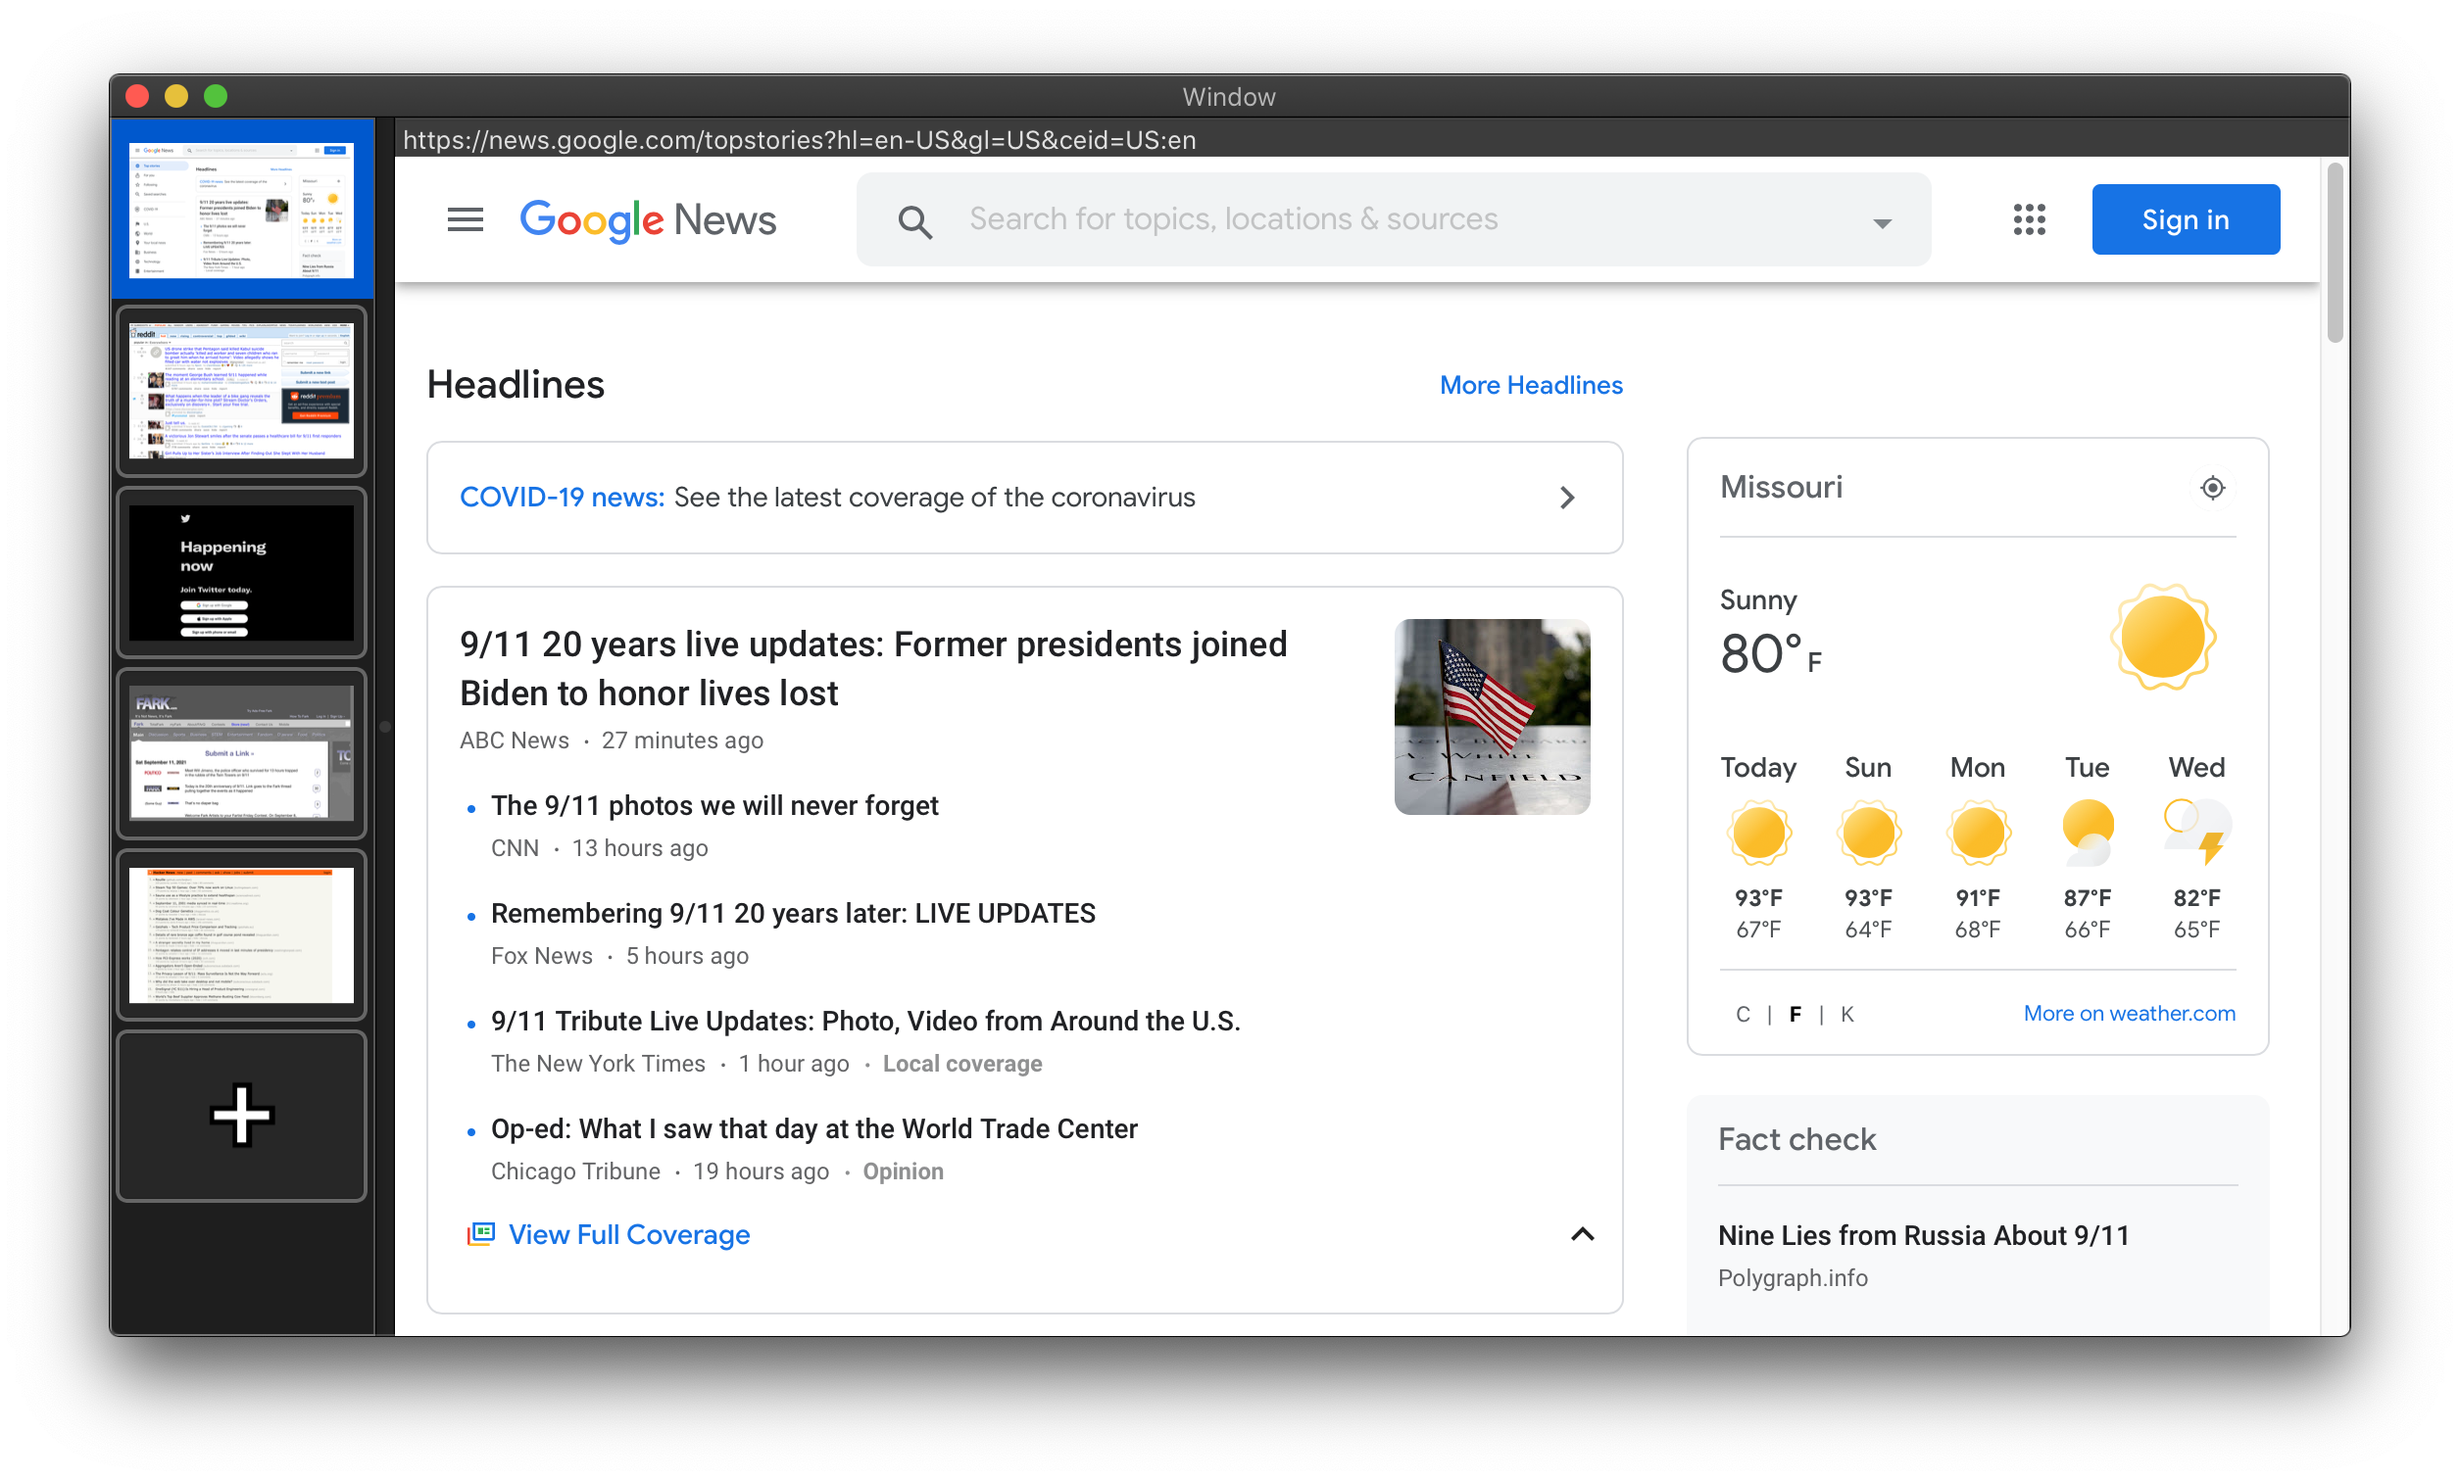
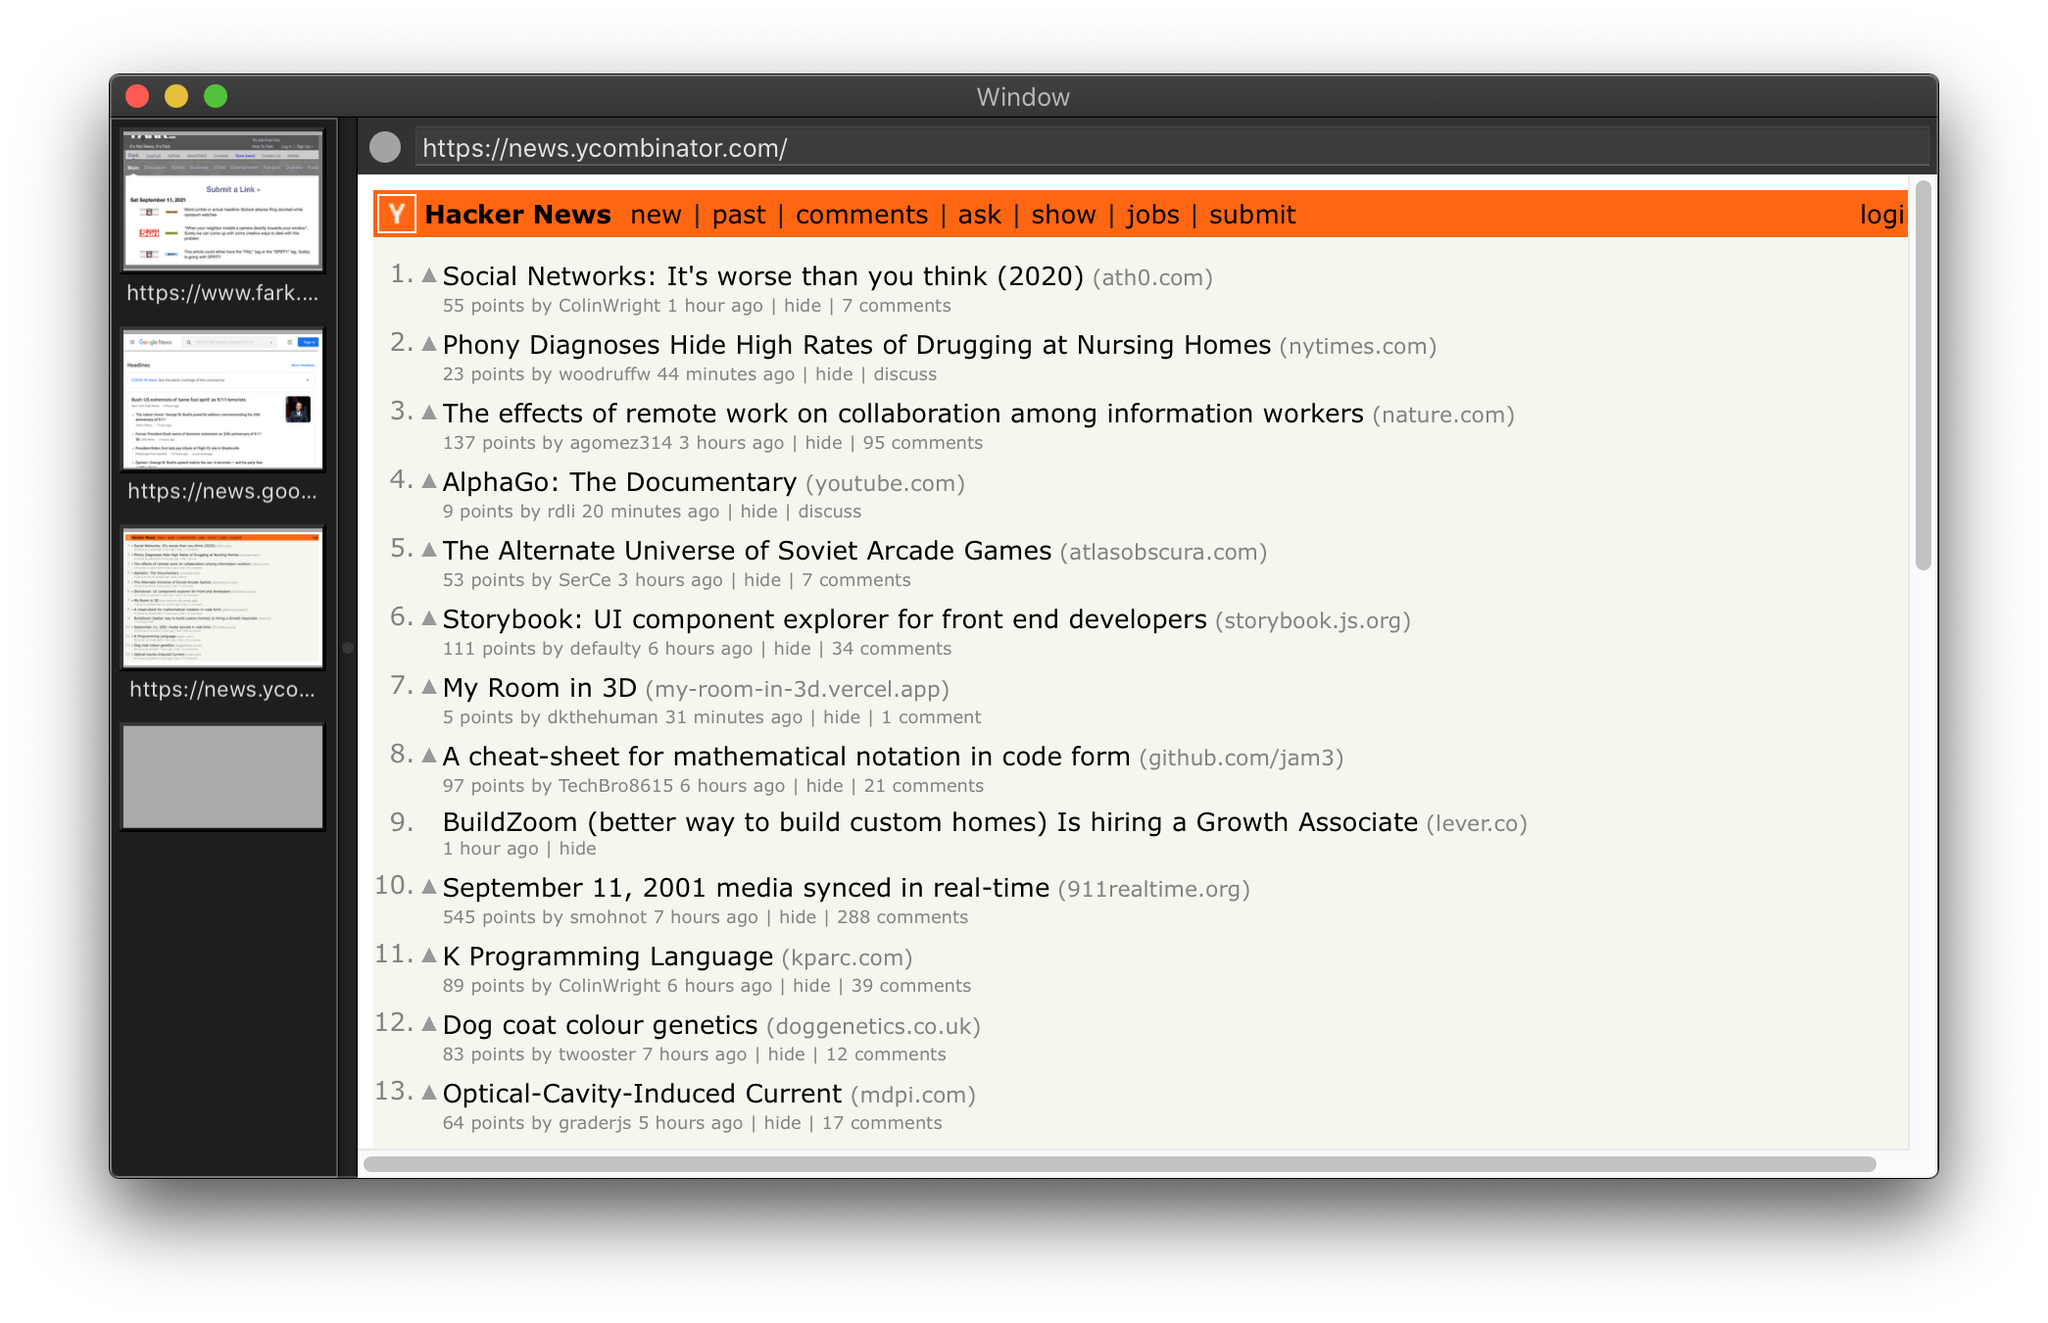
improve preview sizing

diff --git a/Tabber/ViewController.m b/Tabber/ViewController.m
@@ -1,11 +1,15 @@
 
 #import "ViewController.h"
 #import "WebViewTabController.h"
+#import "ThumnailCellView.h"
 #import "NSView+Extras.h"
 
 @import WebKit;
 
 @interface ViewController() <NSTableViewDelegate, NSTableViewDataSource, WebViewTabControllerDelegate, NSSplitViewDelegate>
+@property (weak) IBOutlet NSView *paneContainerView;
+@property (weak) IBOutlet NSView *listContainerView;
+@property (weak) IBOutlet NSSplitView *splitView;
 @property (weak) IBOutlet NSView *webViewSuperView;
 @property (weak) IBOutlet NSTextField *addressField;
 @property (weak) IBOutlet NSTableView *tableView;
@@ -28,8 +32,11 @@
 
 - (NSSize)optimalThumbnailSize;
 {
-    CGFloat maxWidth = kBaseWidth - 4;
-    return NSMakeSize(maxWidth * 2, (maxWidth / self.webViewSuperView.aspectRatio) * 2);
+    CGFloat targetWidth = self.listContainerView.bounds.size.width - 6;
+    CGFloat widthRatio = targetWidth / self.paneContainerView.bounds.size.width;
+    CGFloat targetImageHeight = self.listContainerView.bounds.size.height * widthRatio;
+
+    return NSMakeSize(targetWidth * 2, targetImageHeight * 2);
 }
 
 - (void)viewDidLayout;
@@ -85,20 +92,23 @@
     return self.tabs.count + 1;
 }
 
-static const CGFloat kBaseWidth = 150;
-
 - (CGFloat)tableView:(NSTableView *)tableView heightOfRow:(NSInteger)row;
 {
-    return row == self.tabs.count ? 80 : kBaseWidth / self.webViewSuperView.aspectRatio;
+    return row == self.tabs.count ? 80 : (self.optimalThumbnailSize.height / 2) + 16 + 3 + 3 + 3;
 }
 
-- (nullable id)tableView:(NSTableView *)tableView objectValueForTableColumn:(nullable NSTableColumn *)tableColumn row:(NSInteger)row;
+- (NSView *)tableView:(NSTableView *)tableView viewForTableColumn:(NSTableColumn *)tableColumn row:(NSInteger)row;
 {
-    if (row == self.tabs.count) {
-        return [NSImage imageNamed:@"add"];
-    }
 
-    return self.tabs[row].lastThumbnailImage;
+    ThumnailCellView *view = [tableView makeViewWithIdentifier:@"cellView" owner:self];
+    if (row == self.tabs.count) {
+        view.myTextField.stringValue = @"";
+        view.myImageView.image = nil;
+        return view;
+    }
+    view.myTextField.stringValue = self.tabs[row].url.absoluteString ?: @"";
+    view.myImageView.image = self.tabs[row].lastThumbnailImage;
+    return view;
 }
 
 #pragma mark - NSTableViewDelegate

diff --git a/Tabber/WebViewTabController.m b/Tabber/WebViewTabController.m
@@ -2,10 +2,10 @@
 @import WebKit;
 
 #import "WebViewTabController.h"
-#import "ScrollEventInterceptorView.h"
+#import "EventInterceptorView.h"
 #import "NSImage+Extras.h"
 
-@interface WebViewTabController()<WKNavigationDelegate, ScrollEventDelegate>
+@interface WebViewTabController()<WKNavigationDelegate, EventInterceptorDelegate>
 @property (nonatomic) WKWebView *myWebView;
 @end
 
@@ -16,8 +16,8 @@
     if (!(self = [super init])) { return nil; }
     
     self.myWebView = WKWebView.new;
-    ScrollEventInterceptorView *eeView = [[ScrollEventInterceptorView alloc] initWithFrame:self.myWebView.bounds];
-    eeView.scrollEventDelegate = self;
+    EventInterceptorView *eeView = [[EventInterceptorView alloc] initWithFrame:self.myWebView.bounds];
+    eeView.eventInterceptorDelegate = self;
     eeView.autoresizingMask = NSViewWidthSizable | NSViewHeightSizable;
     [self.myWebView addSubview:eeView];
     self.myWebView.navigationDelegate = self;
@@ -89,7 +89,7 @@
     return self.myWebView.URL.absoluteURL;
 }
 
-#pragma mark - ScrollEventDelegate
+#pragma mark - EventInterceptorDelegate
 
 - (void)scrollDidEnd;
 {

diff --git a/Tabber/EventInterceptorView.m b/Tabber/EventInterceptorView.m
@@ -1,20 +1,20 @@
 
-#import "ScrollEventInterceptorView.h"
+#import "EventInterceptorView.h"
 
-@implementation ScrollEventInterceptorView
+@implementation EventInterceptorView
 
 - (void)scrollWheel:(NSEvent *)event;
 {
     if (event.phase == NSEventPhaseEnded || event.momentumPhase == NSEventPhaseEnded) {
-        [self.scrollEventDelegate scrollDidEnd];
+        [self.eventInterceptorDelegate scrollDidEnd];
     }
-    [self.scrollEventDelegate scrollIsHappening];
+    [self.eventInterceptorDelegate scrollIsHappening];
     [self.nextResponder scrollWheel:event];
 }
 
 - (void)keyUp:(NSEvent *)event;
 {
-    [self.scrollEventDelegate scrollDidEnd];
+    [self.eventInterceptorDelegate scrollDidEnd];
     [self.nextResponder keyUp:event];
 }
 

diff --git a/Tabber/EventInterceptorView.h b/Tabber/EventInterceptorView.h
@@ -1,0 +1,14 @@
+
+@import Cocoa;
+
+@protocol EventInterceptorDelegate <NSObject>
+- (void)scrollIsHappening;
+- (void)scrollDidEnd;
+@end
+
+@interface EventInterceptorView : NSView
+
+@property (nonatomic, weak) id <EventInterceptorDelegate> eventInterceptorDelegate;
+
+@end
+

diff --git a/Tabber/ThumnailCellView.h b/Tabber/ThumnailCellView.h
@@ -1,0 +1,8 @@
+
+@import Cocoa;
+
+@interface ThumnailCellView : NSTableCellView
+@property (weak) IBOutlet NSTextField *myTextField;
+@property (weak) IBOutlet NSImageView *myImageView;
+
+@end

diff --git a/Tabber/ThumnailCellView.m b/Tabber/ThumnailCellView.m
@@ -1,0 +1,6 @@
+
+#import "ThumnailCellView.h"
+
+@implementation ThumnailCellView
+
+@end
